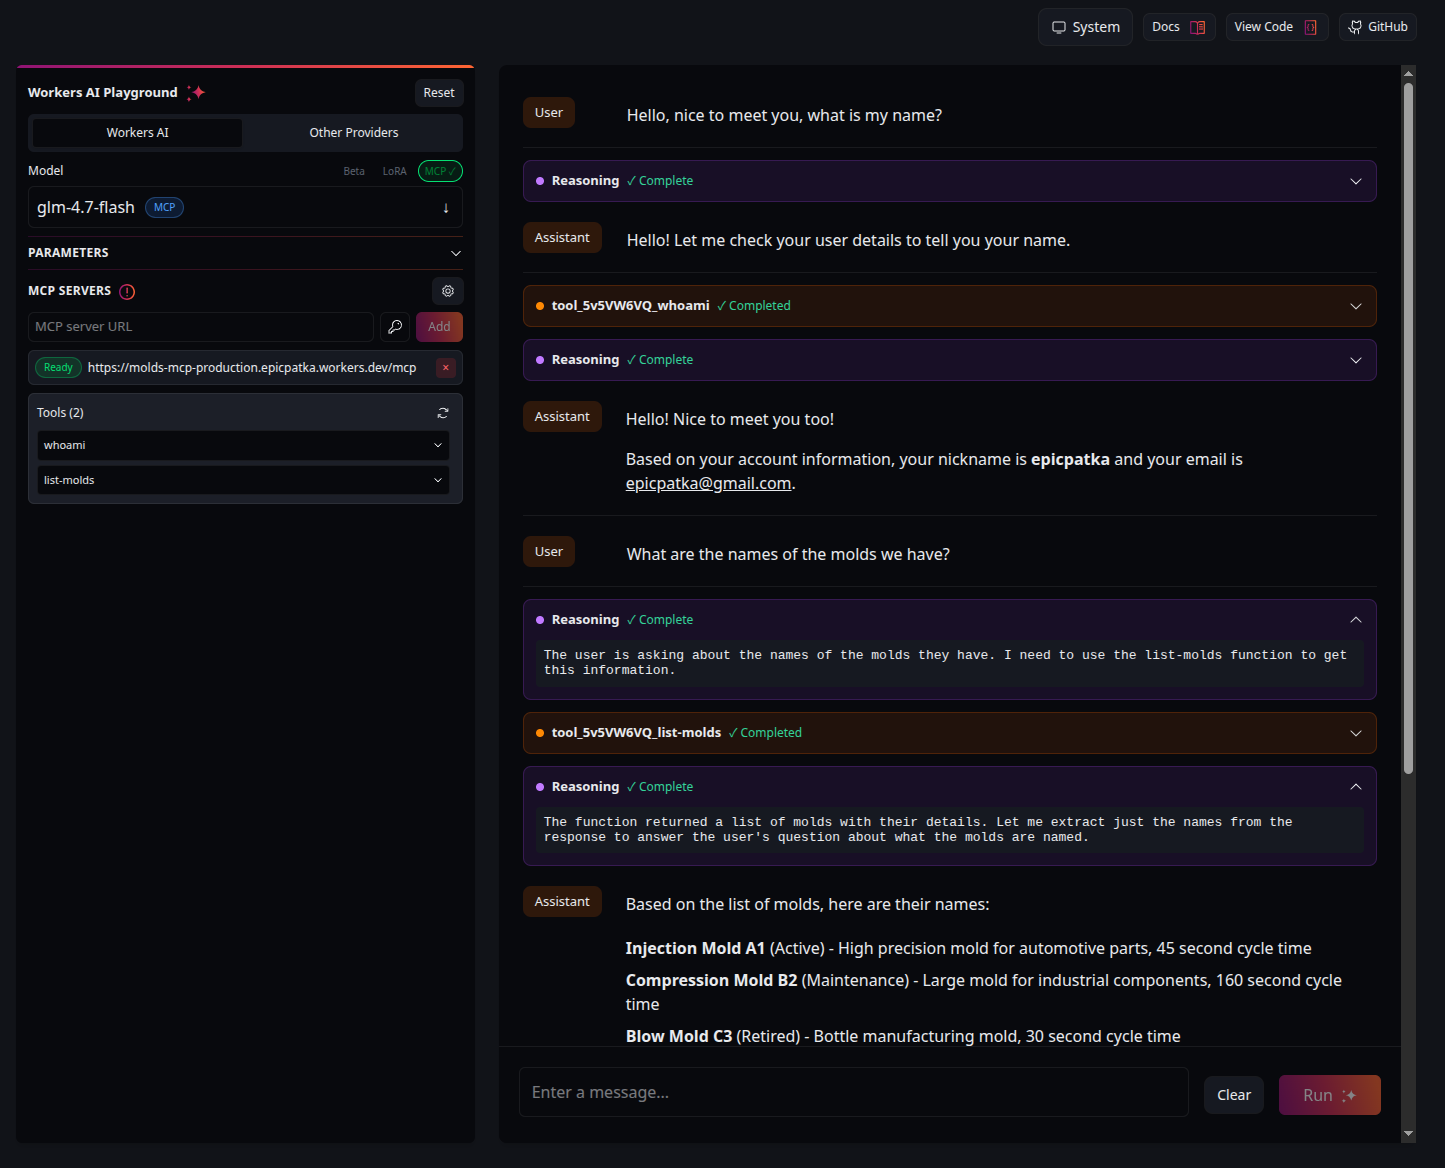
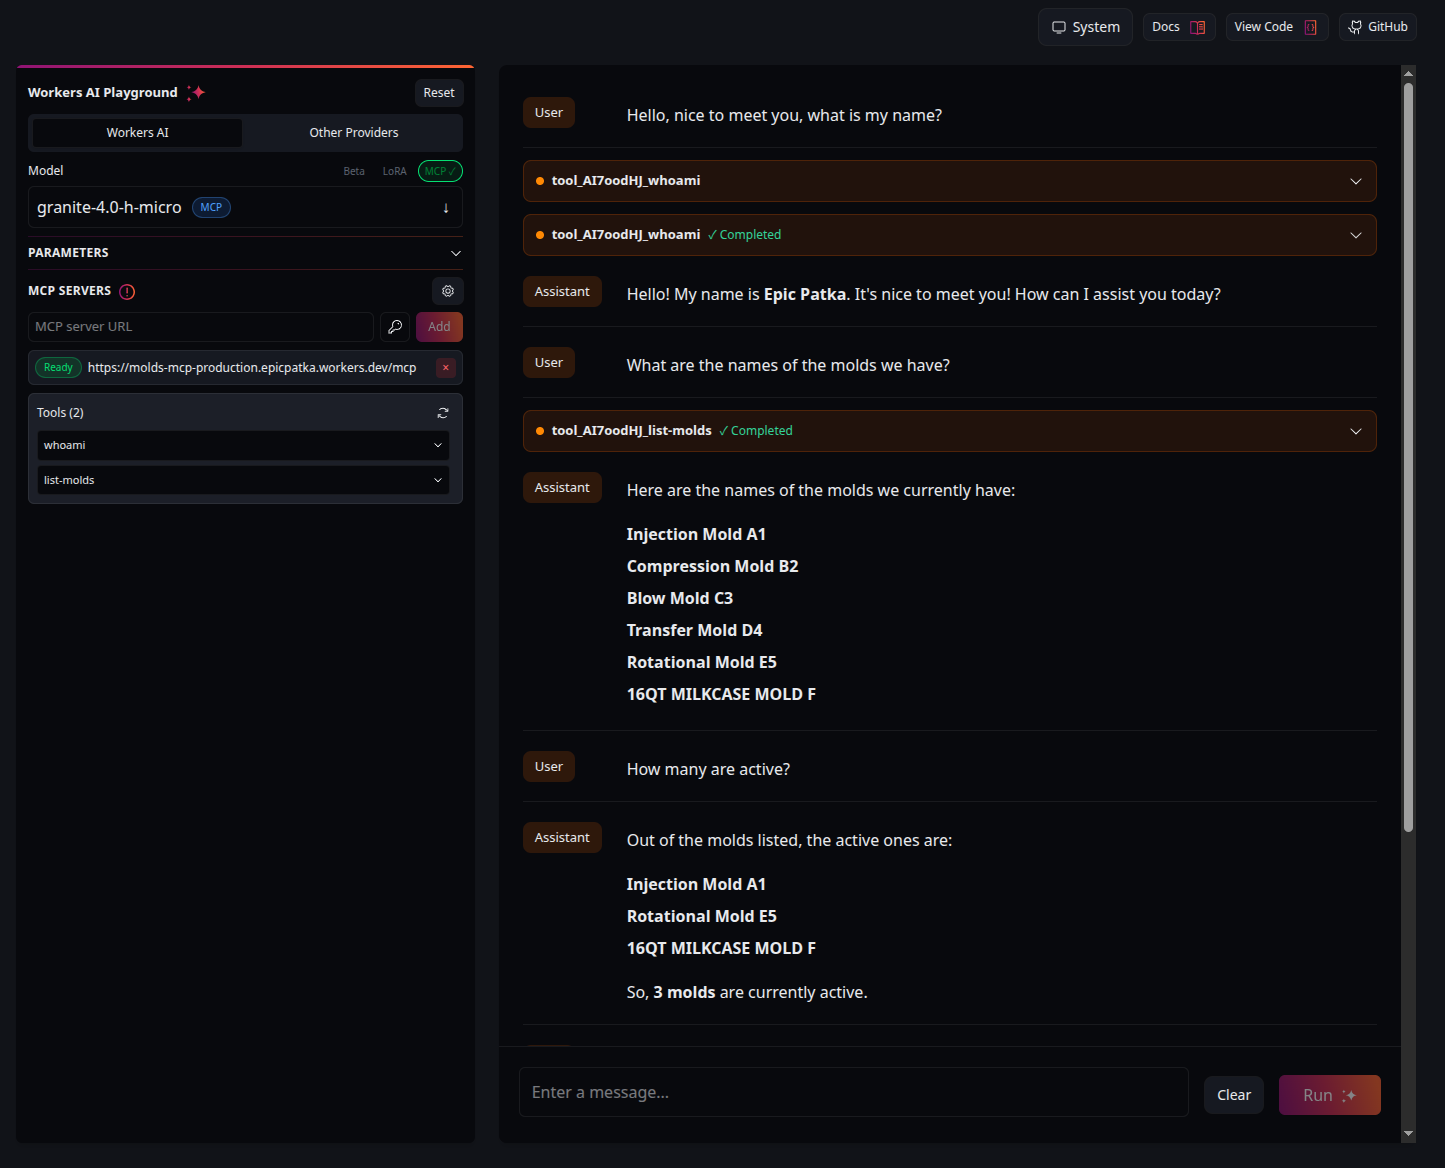
update AI screenshots

Changed region(s): [[0.3426, 0.1233, 0.9965, 0.8938], [0.0311, 0.1541, 0.1557, 0.1849]]

diff --git a/apps/molds-mcp/docs/mcp-server-ai-chat.md b/apps/molds-mcp/docs/mcp-server-ai-chat.md
@@ -9,5 +9,3 @@ Screenshots interacting with AI.
 ![AI Chat 1](./ai-chat-1.png)
 
 ![AI Chat 2](./ai-chat-2.png)
-
-![AI Chat 3](./ai-chat-3.png)
